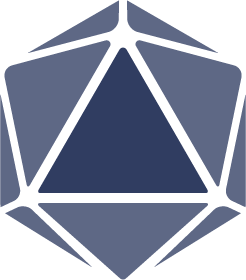
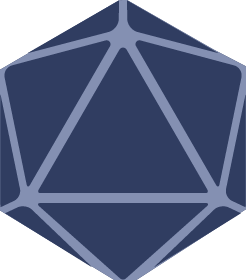
Fixing light/dark mode

diff --git a/src/components/TabView.tsx b/src/components/TabView.tsx
@@ -37,8 +37,9 @@ export const TabsView = ({
 		return (
 			<vstack>
 				<button
-					appearance="plain"
+					appearance="media"
 					size="small"
+					textColor="white"
 					onPress={async () => setSelectedTab(tabType)}
 				>
 					{getTabTitle(tabType)}
@@ -59,30 +60,25 @@ export const TabsView = ({
 				<>
 					{/* Furthest Left Arrow (Jump to Day 0) */}
 					{currentDay > 0 && (
-						<vstack gap="none" alignment="center">
-							<button
-								icon="caret-left-fill"
-								appearance="plain"
-								size="small"
-								textColor="white"
-								onPress={async () => setCurrentDay(0)}
-							/>
-							<hstack
-								height="1.5px"
-								width="5px"
-								backgroundColor="white"
-							></hstack>
-						</vstack>
+						<button
+							appearance="media"
+							size="medium"
+							textColor="white"
+							onPress={async () => setCurrentDay(0)}
+						>
+							⇤
+						</button>
 					)}
 					{/* Left Arrow (Previous Day) */}
 					{currentDay > 0 && (
 						<button
-							icon="caret-left"
-							appearance="plain"
-							size="small"
+							appearance="media"
+							size="medium"
 							textColor="white"
 							onPress={async () => setCurrentDay(currentDay - 1)}
-						/>
+						>
+							←
+						</button>
 					)}
 				</>
 			)}
@@ -94,35 +90,30 @@ export const TabsView = ({
 					{/* Right Arrow (Next Day) */}
 					{currentDay < maxDay && (
 						<button
-							icon="caret-right"
-							appearance="plain"
-							size="small"
+							appearance="media"
+							size="medium"
 							textColor="white"
-							onPress={async () => { 
+							onPress={async () => {
 								console.log("Current day is ", currentDay);
 								setCurrentDay(currentDay + 1);
 							}}
-						/>
+						>
+							→
+						</button>
 					)}
 					{/* Furthest Right Arrow (Jump to Latest Day) */}
 					{currentDay < maxDay && (
-						<vstack gap="none" alignment="center middle">
-							<button
-								icon="caret-right-fill"
-								appearance="plain"
-								size="small"
-								textColor="white"
-								onPress={async () => { 
-									console.log("Far right");
-									setCurrentDay(maxDay);
-								}}
-							/>
-							<hstack
-								height="1.5px"
-								width="5px"
-								backgroundColor="white"
-							></hstack>
-						</vstack>
+						<button
+							appearance="media"
+							size="medium"
+							textColor="white"
+							onPress={async () => {
+								console.log("Far right");
+								setCurrentDay(maxDay);
+							}}
+						>
+							⇥
+						</button>
 					)}
 				</>
 			)}

diff --git a/src/components/CommentView.tsx b/src/components/CommentView.tsx
@@ -64,9 +64,13 @@ export const CommentView = (context: Devvit.Context, comment: any): JSX.Element 
 							url={"D20Icon.png"}
 							imageHeight={20}
 							imageWidth={20}
-							resizeMode='cover'
+							resizeMode='fit'
 						/>
-						<text size='small' weight='bold' color={comment.diceRoll === 20 ? "yellow" : comment.diceRoll === 1 ? "red" : "white"}>
+						<text size='medium'
+							weight='bold'
+							color={comment.diceRoll === 20 ? "darkgoldenrod" : (comment.diceRoll === 1 ? "firebrick" : "white")}
+							outline='thick'
+						>
 							{comment.diceRoll}
 						</text>
 					</zstack>
@@ -86,7 +90,7 @@ export const CommentView = (context: Devvit.Context, comment: any): JSX.Element 
 			{/* </hstack> */}
 			<hstack gap='small' alignment='start middle'>
 				<icon name="upvote-fill" color="upvote-plain" size='small' />
-				<text size='small'>{comment.score}</text>
+				<text size='small' weight='bold'>{comment.score}</text>
 				<spacer grow />
 				<hstack
 					onPress={async () => { await navigateToComment() }}
